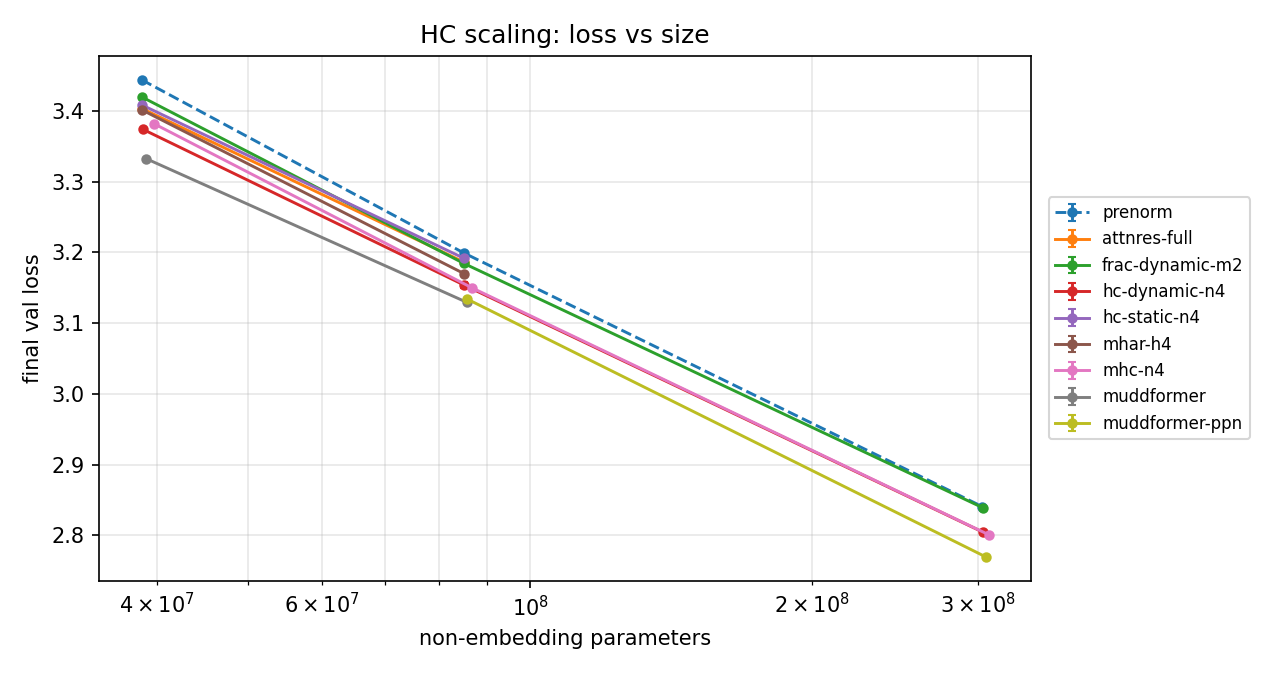
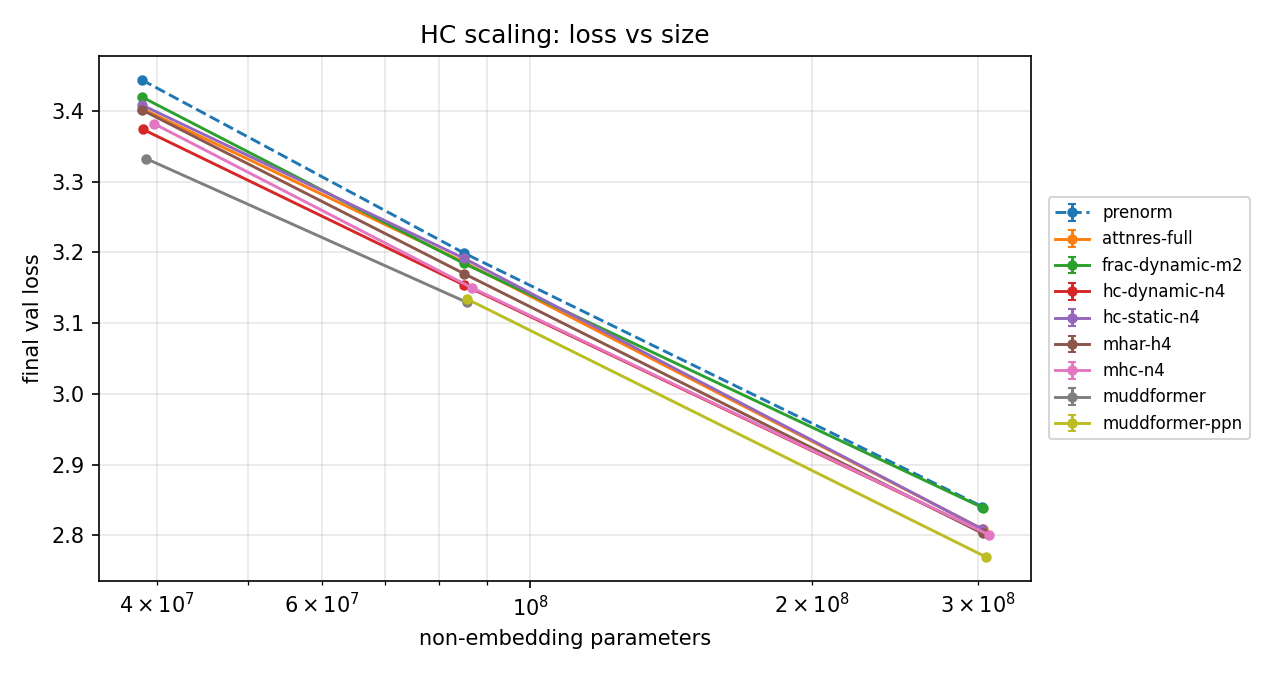
results: all 8 variants at L; README findings rewritten (L is 24 layers: size/depth confound; static HC/AttnRes/MHAR recover at L)

diff --git a/README.md b/README.md
@@ -47,18 +47,18 @@ Where there are several seeds the table gives mean ± std (pre-norm at M: 3 seed
 | variant | s | m | l |
 |---|---|---|---|
 | prenorm | 3.4439 | 3.1993 ± 0.0021 | 2.8405 |
-| attnres-full | -0.0407 | -0.0130 | — |
-| frac-dynamic-m2 | -0.0245 | -0.0150 | — |
+| attnres-full | -0.0407 | -0.0130 | -0.0318 |
+| frac-dynamic-m2 | -0.0245 | -0.0150 | -0.0014 |
 | hc-dynamic-n4 | -0.0699 | -0.0457 ± 0.0042 (n=3) | -0.0360 |
-| hc-static-n4 | -0.0355 | -0.0075 | — |
-| mhar-h4 | -0.0426 | -0.0292 | — |
+| hc-static-n4 | -0.0355 | -0.0075 | -0.0319 |
+| mhar-h4 | -0.0426 | -0.0292 | -0.0378 |
 | mhc-n4 | -0.0621 | -0.0495 ± 0.0029 (n=3) | -0.0396 |
 | muddformer | -0.1115 | -0.0698 ± 0.0011 (n=2) | — |
-| muddformer-ppn | — | — | -0.0710 |
+| muddformer-ppn | — | -0.0650 | -0.0710 |
 | *non-emb params* | 38.5M | 85.0M | 303.6M |
 
-At L, pre-norm, mHC, dynamic HC and MUDDFormer with PrePostDANorm (`muddformer-ppn`) finished,
-1 seed each. Plain MUDDFormer diverged at L (see below), and the other variants were not run at L.
+At L every variant is a single seed. Plain MUDDFormer diverged at L, so the L entry for MUDDFormer is
+`muddformer-ppn` (with PrePostDANorm), which was also run at M for a like-for-like comparison.
 
 ![gain vs size](results/scaling_gpu/delta_vs_params.png)
 
@@ -67,24 +67,30 @@ Full per-size tables with throughput and memory: [`results/scaling_gpu_s`](resul
 
 What the GPU runs show:
 
-* **mHC and dynamic HC keep a real gain up to 300M**, shrinking slowly: mHC −0.062 → −0.050 → −0.040,
-  dynamic HC −0.070 → −0.046 → −0.036 from S to M to L. The gain drops by roughly 20–25% for each
-  ~3× increase in size, so it is shrinking, but it has not vanished by 300M.
-* **Static mixing does not survive scale.** Static HC falls from −0.036 at S to −0.008 at M.
-  AttnRes (−0.041 → −0.013) and Frac (−0.025 → −0.015) also shrink quickly.
-* **MUDDFormer is the best variant at every size, and its gain does not shrink from M to L.** It is
-  −0.112 at S, −0.070 ± 0.001 at M and −0.071 at L. At L it needs the paper's **PrePostDANorm**
-  (`prepost_norm: true`). Plain MUDDFormer diverged at 24 layers: gradient norms spiked up to 7×10⁴
-  from step ~3000 and the loss collapsed to the initial value by step 7000. With PrePostDANorm the
-  max grad norm up to step 7500 was 14, the same as pre-norm. Caveat: S/M used plain MUDDFormer
-  and L uses the PrePostDANorm variant, so the M → L comparison mixes two configurations.
-* **Depth attention.** MHAR beats single-head AttnRes at M (−0.029 vs −0.013, 1 seed each).
-* **Throughput** (relative to pre-norm): at L with 8-GPU DDP, mHC runs at 0.53× and dynamic HC
-  at 0.51×. At S/M (8 jobs sharing a node) the range is 0.47× (HC/mHC) to 0.78× (Frac).
-  MHAR's 0.23× is an **implementation** limit, not the method's: `torch.compile` fuses the
+* **Important confound: L is also deeper.** S and M have 12 layers and L has 24, so the step from
+  M to L doubles depth as well as width. Every method here routes information *across depth*,
+  so read the M → L column as "bigger **and** deeper", not as pure size scaling.
+* **Every variant beats pre-norm at every size**, except Frac at L (−0.001, i.e. no gain).
+* **MUDDFormer is the best variant at every size.** −0.112 at S and −0.070 ± 0.001 at M (plain),
+  then −0.065 at M and **−0.071 at L** with PrePostDANorm. The like-for-like ppn comparison M → L
+  is flat to slightly growing. Plain MUDDFormer **diverged at 24 layers**: gradient norms spiked
+  up to 7×10⁴ from step ~3000 and the loss collapsed to the initial value by step 7000.
+  PrePostDANorm (`prepost_norm: true`) fixes it, with a max grad norm of 14 up to step 7500,
+  the same as pre-norm.
+* **mHC and dynamic HC shrink smoothly but stay clearly positive**: mHC −0.062 → −0.050 → −0.040,
+  dynamic HC −0.070 → −0.046 → −0.036.
+* **Static HC, AttnRes and MHAR dip at M and recover at L**: static HC −0.036 → −0.008 → −0.032,
+  AttnRes −0.041 → −0.013 → −0.032, MHAR −0.043 → −0.029 → −0.038. The recovery coincides with
+  the jump to 24 layers. It is consistent with depth-routing methods paying off more in deeper
+  nets, but 1 seed at L and the size/depth confound mean this is a hypothesis, not a result.
+  A 24-layer model at M width, or a 12-layer model at L width, would separate the two effects.
+* **MHAR beats single-head AttnRes at M and L** (−0.029 vs −0.013, then −0.038 vs −0.032).
+* **Throughput at L** (8×H100 DDP each, relative to pre-norm at 1.23M tok/s): Frac 0.76×,
+  static HC 0.63×, mHC 0.53×, MUDD-ppn 0.53×, dynamic HC 0.51×, AttnRes 0.38×, MHAR 0.24×.
+  MHAR's cost is an **implementation** limit, not the method's: `torch.compile` fuses the
   multi-head RMSNorm backward and the softmax into one slow kernel. Contributions welcome.
 * **Small scale misleads.** mHC was *worse* than pre-norm in the laptop runs below and static HC
-  beat dynamic HC there. Both reverse on GPU.
+  beat dynamic HC there. Neither holds on GPU.
 
 ### Laptop scale (sanity check only)
 

diff --git a/results/scaling_gpu/scaling.md b/results/scaling_gpu/scaling.md
@@ -3,11 +3,11 @@ Row `prenorm` = its val loss; other rows = Δ vs prenorm at the same width.
 | variant | s | m | l |
 |---|---|---|---|
 | prenorm | 3.4439 | 3.1993 ± 0.0021 | 2.8405 |
-| attnres-full | -0.0407 | -0.0130 | — |
+| attnres-full | -0.0407 | -0.0130 | -0.0318 |
 | frac-dynamic-m2 | -0.0245 | -0.0150 | -0.0014 |
 | hc-dynamic-n4 | -0.0699 | -0.0457 ± 0.0042 (n=3) | -0.0360 |
-| hc-static-n4 | -0.0355 | -0.0075 | — |
-| mhar-h4 | -0.0426 | -0.0292 | — |
+| hc-static-n4 | -0.0355 | -0.0075 | -0.0319 |
+| mhar-h4 | -0.0426 | -0.0292 | -0.0378 |
 | mhc-n4 | -0.0621 | -0.0495 ± 0.0029 (n=3) | -0.0396 |
 | muddformer | -0.1115 | -0.0698 ± 0.0011 (n=2) | — |
 | muddformer-ppn | — | -0.0650 | -0.0710 |
